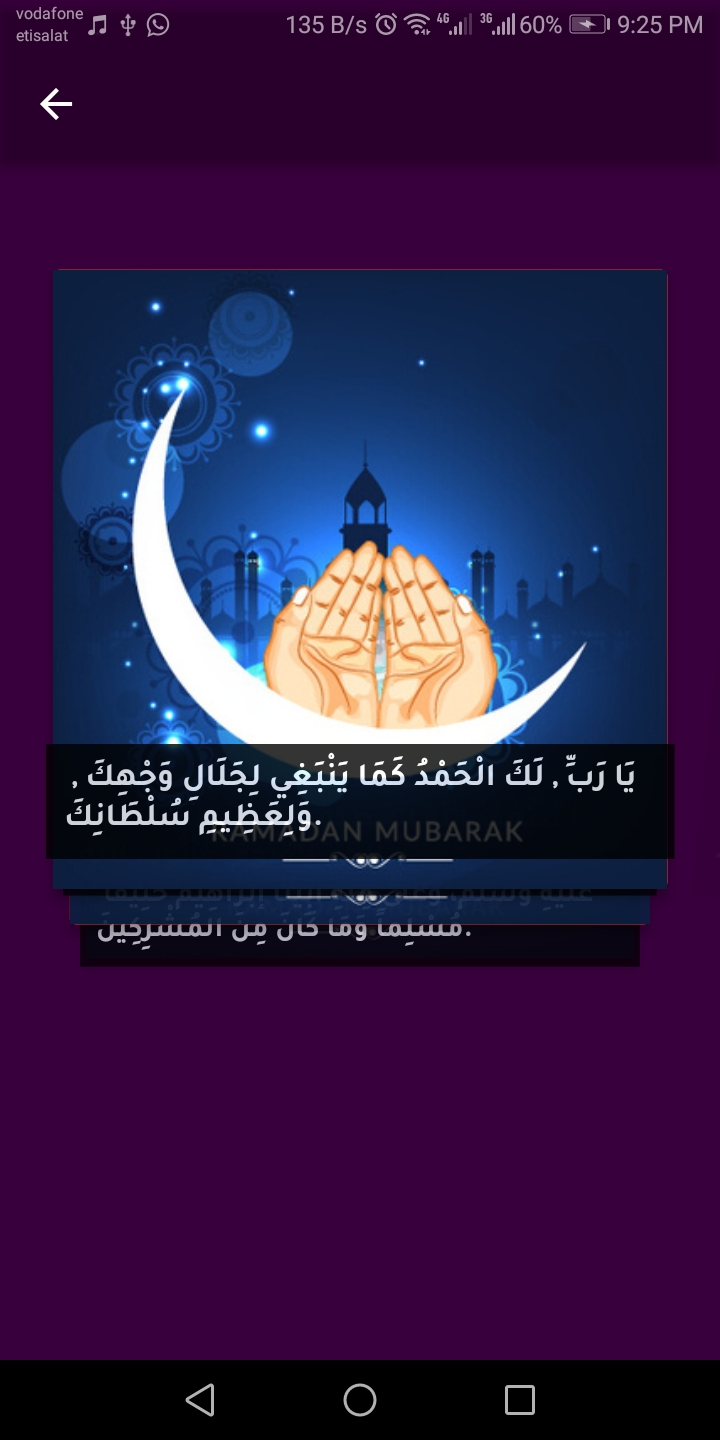
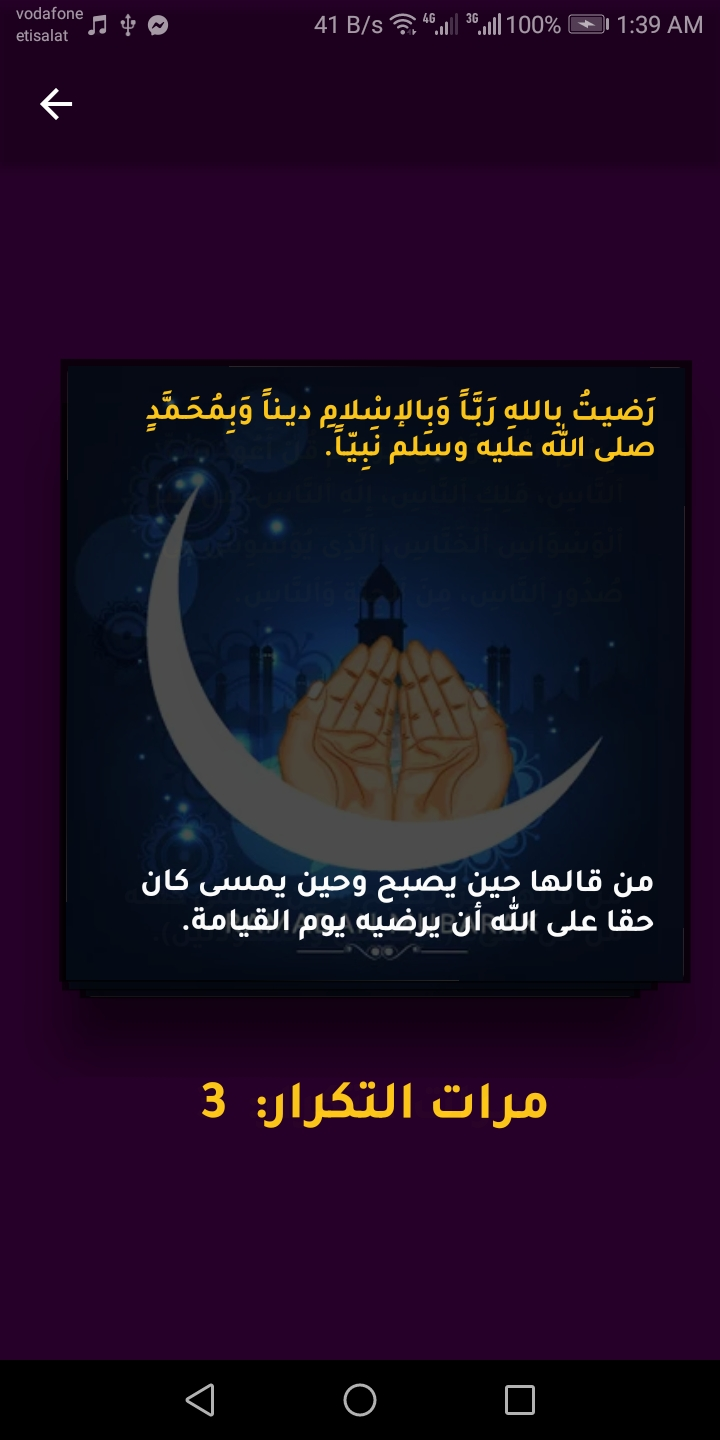
Added new Screenshots

diff --git a/README.md b/README.md
@@ -17,3 +17,7 @@ This app is made to help Muslims
 ![alt text](https://github.com/OmarHatem28/Emsakia-Ramdan/blob/master/screenshots/azkar.jpg)
 
 ![alt text](https://github.com/OmarHatem28/Emsakia-Ramdan/blob/master/screenshots/evening_zekr.jpg)
+
+![alt text](https://github.com/OmarHatem28/Emsakia-Ramdan/blob/master/screenshots/doaa.jpg)
+
+![alt text](https://github.com/OmarHatem28/Emsakia-Ramdan/blob/master/screenshots/doaa_categories.jpg)
